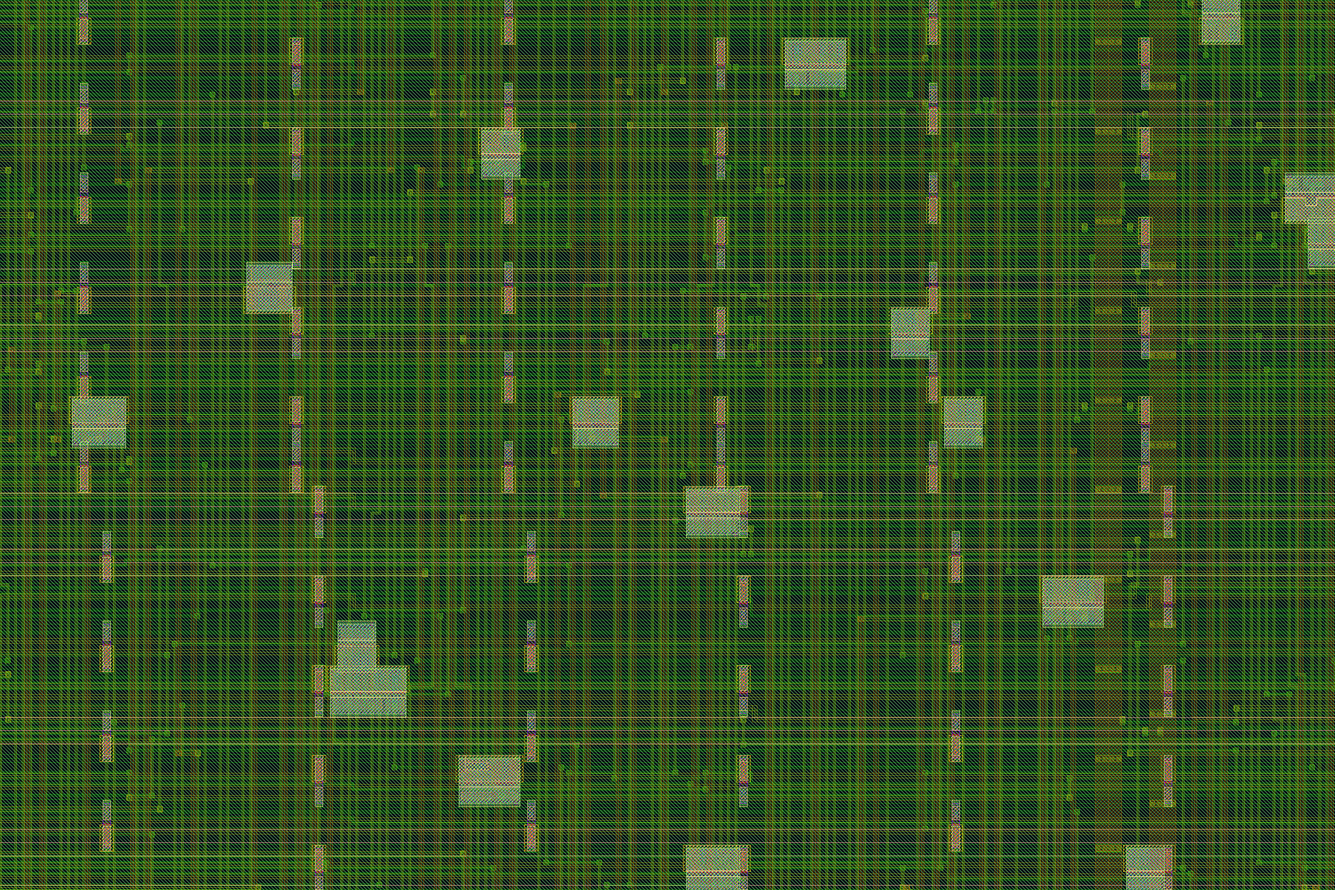
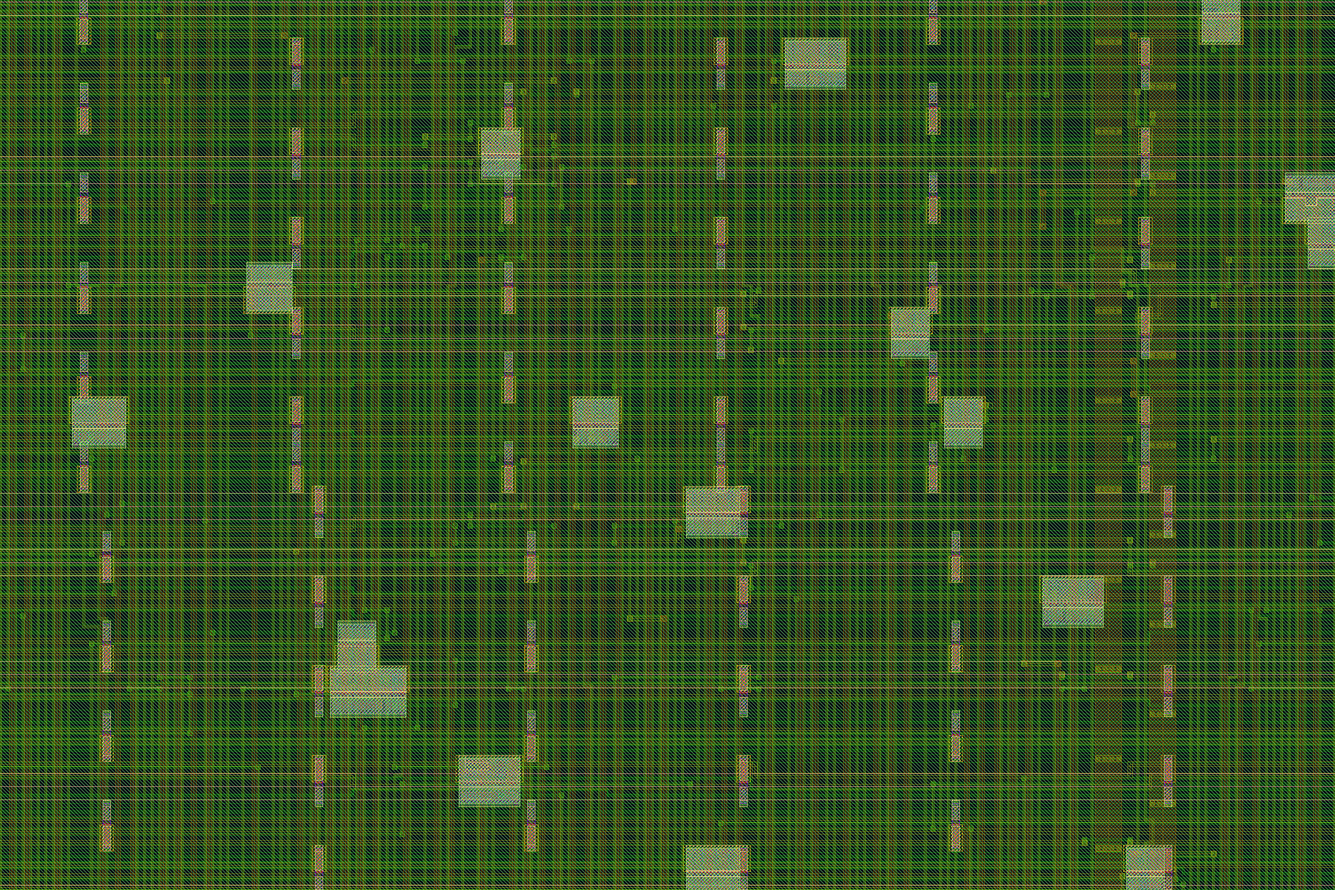
machine_routed: whole-machine routed layout v3 (unsigned, 0 DRT violations)
v2 placement + GRT_ADJUSTMENT 0.2; same netlist as v1/v2.

Changed region(s): [[0.0, 0.0, 1.0, 1.0]]

diff --git a/docs/machine_routed/index.html b/docs/machine_routed/index.html
@@ -34,28 +34,28 @@ ul{padding-left:20px}
 <body>
 <main>
 <h1>吟游诗人 Bard · 整机布线版</h1>
-<p class="sub">R135 整机（token → 下一个 token）· SKY130A · 6.441 × 3.003 mm · 第二版（干净布线）</p>
+<p class="sub">R135 整机（token → 下一个 token）· SKY130A · 6.441 × 3.003 mm · 第三版（布线零违例）</p>
 
 <div class="ok"><b>功能已核对。</b>把布线后的网表按 SKY130 官方单元模型还原成门级电路，再用 3 个用例回放：下一个 token 分别为 32、5、128，与 C 参考实现一致，拍数与 RTL 完全相同；故意改坏一个门后，回放会被判错。</div>
-<div class="warn"><b>未签核，不能流片。</b>详细布线后仍剩 <b>10</b> 处布线规则违例（上一版 24,314 处）。天线修复、DRC/LVS、时序签核都没做：保持时间最差 −3.09 ns，天线违例 11,306 根网。</div>
+<div class="warn"><b>未签核，不能流片。</b>详细布线已做到 <b>0</b> 处布线规则违例（第一版 24,314 处）。但天线修复、DRC/LVS、时序签核都没做：保持时间最差 −3.13 ns，天线违例 11,151 根网。</div>
 
 <div class="stats">
-<div class="stat"><b>10</b><span>剩余布线违例（上一版 24,314）</span></div>
+<div class="stat"><b>0</b><span>剩余布线违例（第一版 24,314）</span></div>
 <div class="stat"><b>19.34 mm²</b><span>芯片面积</span></div>
 <div class="stat"><b>311,420</b><span>实例（含 120 个宏）</span></div>
-<div class="stat"><b>31.1 m</b><span>总线长（上一版 40.9 m）</span></div>
+<div class="stat"><b>29.6 m</b><span>总线长（第一版 40.9 m）</span></div>
 <div class="stat"><b>7.44 mm²</b><span>120 个权重宏</span></div>
 <div class="stat"><b>2.73 mm²</b><span>标准单元</span></div>
 </div>
 
 <figure><img src="whole.png" alt="整机布线全景：左右各 60 个权重宏，中间是整机主体" loading="lazy">
-<figcaption>全景。左右两侧各 6 × 10 个权重宏（共享权重表切成的 120 块，每块存 256 个 64 位权重字）；中间 3 mm 是整机主体（约 19 万门、8 万触发器）。宏带里的主体单元从约 27,000 个降到约 1,500 个。</figcaption></figure>
+<figcaption>全景。左右两侧各 6 × 10 个权重宏（共享权重表切成的 120 块，每块存 256 个 64 位权重字）；中间 3 mm 是整机主体（约 19 万门、8 万触发器）。宏带里的主体单元从第一版的约 27,000 个降到约 1,500 个。</figcaption></figure>
 
 <figure><img src="macros.png" alt="左下角的权重宏阵列" loading="lazy">
 <figcaption>权重宏阵列局部。每个宏约 250 × 260 µm，宏之间是走线通道和电源条。</figcaption></figure>
 
 <figure><img src="chain_exit.png" alt="左侧宏带与中间主体的交界" loading="lazy">
-<figcaption>宏带与主体交界。每行宏的输出沿 OR 链朝中间串，在这里接入选择树。剩下的 10 处违例都在这张图左侧不远处：几根主体边缘的线在 met5 上越进了宏带。</figcaption></figure>
+<figcaption>宏带与主体交界。每行宏的输出沿 OR 链朝中间串，在这里接入选择树。</figcaption></figure>
 
 <figure><img src="center.png" alt="中间主体区局部" loading="lazy">
 <figcaption>中间主体区局部（约 600 × 400 µm）。</figcaption></figure>
@@ -65,21 +65,21 @@ ul{padding-left:20px}
 
 <h2>这一版改了什么</h2>
 <div class="tw"><table>
-<tr><th></th><th>第一版（预览）</th><th>第二版（本页）</th></tr>
-<tr><td>主体单元落在宏带里</td><td>约 27,000 个</td><td>约 1,500 个</td></tr>
-<tr><td>放置密度</td><td>65%</td><td>35%，主体铺满中间 3 mm</td></tr>
-<tr><td>全局布线溢出</td><td>195,218</td><td>102,654</td></tr>
-<tr><td>详细布线</td><td>12 轮，剩 24,314</td><td>64 轮，剩 10</td></tr>
-<tr><td>总线长</td><td>40.9 m</td><td>31.1 m</td></tr>
+<tr><th></th><th>第一版（预览）</th><th>第二版</th><th>第三版（本页）</th></tr>
+<tr><td>主体单元落在宏带里</td><td>约 27,000 个</td><td>约 1,500 个</td><td>同第二版</td></tr>
+<tr><td>放置密度</td><td>65%</td><td>35%，主体铺满中间 3 mm</td><td>同第二版</td></tr>
+<tr><td>全局布线溢出</td><td>195,218</td><td>102,654</td><td>78,614</td></tr>
+<tr><td>详细布线</td><td>12 轮，剩 24,314</td><td>64 轮，剩 10</td><td>11 轮降到 0</td></tr>
+<tr><td>总线长</td><td>40.9 m</td><td>31.1 m</td><td>29.6 m</td></tr>
 </table></div>
 <ul>
-<li>上一版的违例几乎全在宏上方的 met5：主体单元被摆进宏与宏之间的缝里，它们的连线只能从宏顶上绕。这一版给两侧宏带加了放置禁区，并降低放置密度，让主体在中间铺开。</li>
-<li>网表没变：综合结果和上一版相同，只是摆放和走线不同。还原后的门级电路与上一版逐字节一致，所以上面的功能回放结论对两版都成立。</li>
+<li>上一版的违例几乎全在宏上方的 met5：主体单元被摆进宏与宏之间的缝里，它们的连线只能从宏顶上绕。第二版给两侧宏带加了放置禁区，并降低放置密度，让主体在中间铺开；第三版沿用第二版的摆放，只把全局布线预留的余量从 30% 调到 20%，剩下的 10 处随之消失。</li>
+<li>网表没变：三版综合结果相同，只是摆放和走线不同。还原后的门级电路逐字节一致，所以上面的功能回放结论对三版都成立。</li>
 <li>整机网表来自 H 的 R135：整机主体 189,989 NAND / 80,283 LATCH；共享权重表（31.7 万门）按地址高 7 位切成 128 块，120 块非零，各做成独立的宏，用 OR 链串起来。H 已对全部 32,768 个地址证明切块后与原表逐字相同。</li>
 <li>工具：LibreLane 3.0.14 / OpenROAD / KLayout，在自有机器上运行。</li>
 </ul>
 
-<p>下载：<a href="https://github.com/JogJohgoeg/nand-llama-research/releases/tag/machine-r135-routed-v2">第二版 OAS / GDS / 指标</a> · <a href="https://github.com/JogJohgoeg/nand-llama-research/releases/tag/machine-preview-r135-routed-v1">第一版（预览）</a> · <a href="../gds/int_c16_machine/">只到布局的 3D 预览</a> · <a href="../gds/">全部 3D 版图</a></p>
+<p>下载：<a href="https://github.com/JogJohgoeg/nand-llama-research/releases/tag/machine-r135-routed-v3">第三版 OAS / GDS / 指标</a> · <a href="https://github.com/JogJohgoeg/nand-llama-research/releases/tag/machine-r135-routed-v2">第二版</a> · <a href="https://github.com/JogJohgoeg/nand-llama-research/releases/tag/machine-preview-r135-routed-v1">第一版（预览）</a> · <a href="../gds/int_c16_machine/">只到布局的 3D 预览</a> · <a href="../gds/">全部 3D 版图</a></p>
 </main>
 </body>
 </html>
